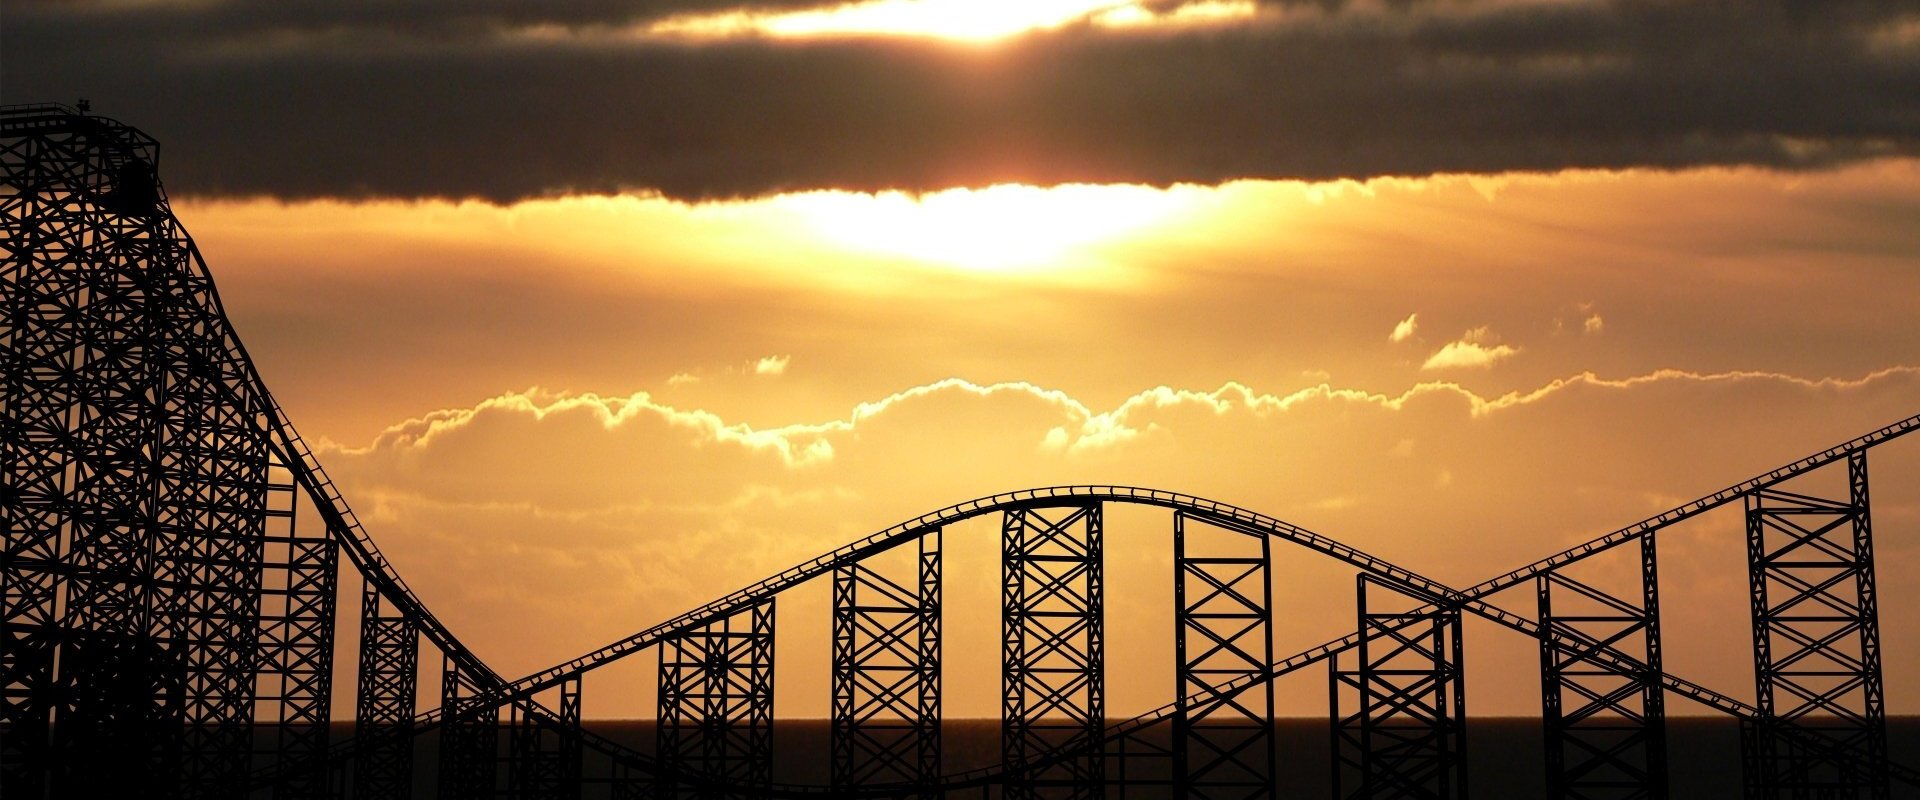
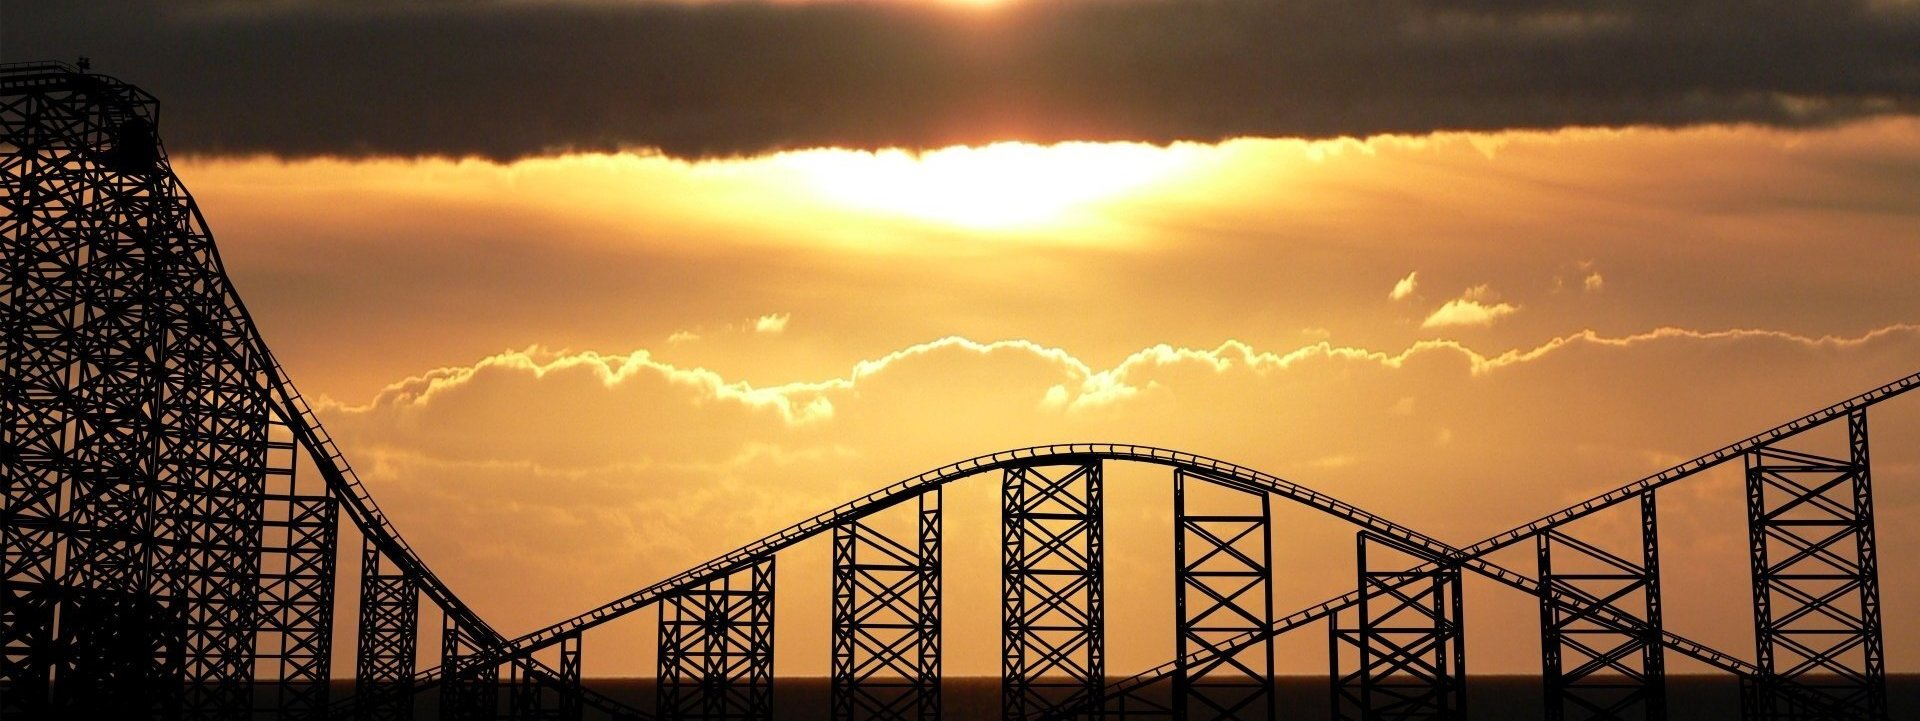
fix carousel image size and slide effect

diff --git a/src/experience.html b/src/experience.html
@@ -67,7 +67,7 @@
 <section class="flex-grow-1">
     <!--code here-->
     <div id="main">
-        <div class="carousel slide wow fadeIn" data-interval="4000" data-ride="carousel" id="carousel">
+        <div class="carousel slide carousel-fade wow fadeIn" data-interval="4000" data-ride="carousel" id="carousel">
             <ol class="carousel-indicators">
                 <li class="active" data-slide-to="0" data-target="#carousel"></li>
                 <li data-slide-to="1" data-target="#carousel"></li>

diff --git a/src/index.html b/src/index.html
@@ -66,7 +66,7 @@
 </header>
 <section class="flex-grow-1">
     <!--carousel-->
-    <div class="carousel slide carousel-fade wow fadeIn" data-interval="4000" data-ride="carousel" id="carousel">
+    <div class="carousel slide wow fadeIn" data-interval="3000" data-ride="carousel" id="carousel">
         <ol class="carousel-indicators">
             <li class="active" data-slide-to="0" data-target="#carousel"></li>
             <li data-slide-to="1" data-target="#carousel"></li>

diff --git a/src/park-information.html b/src/park-information.html
@@ -66,7 +66,7 @@
 </header>
 <section class="flex-grow-1 mb-3">
     <!-- banner -->
-    <div class="carousel slide wow fadeIn" data-ride="carousel" id="carousel">
+    <div class="carousel slide carousel-fade wow fadeIn" data-ride="carousel" id="carousel">
         <div class="carousel-inner">
             <div class="carousel-item active">
                 <img alt="First slide" class="carousel-image" src="assets/image/park-information/image3.jpg">

diff --git a/src/assets/css/park-information.css b/src/assets/css/park-information.css
@@ -50,10 +50,11 @@
 
 @media (min-width: 1200px) {
     .top-move {
-        margin-top: -80px;
+        margin-top: -75px;
     }
 
     .carousel {
+        height: auto;
         max-height: 680px;
     }
 
